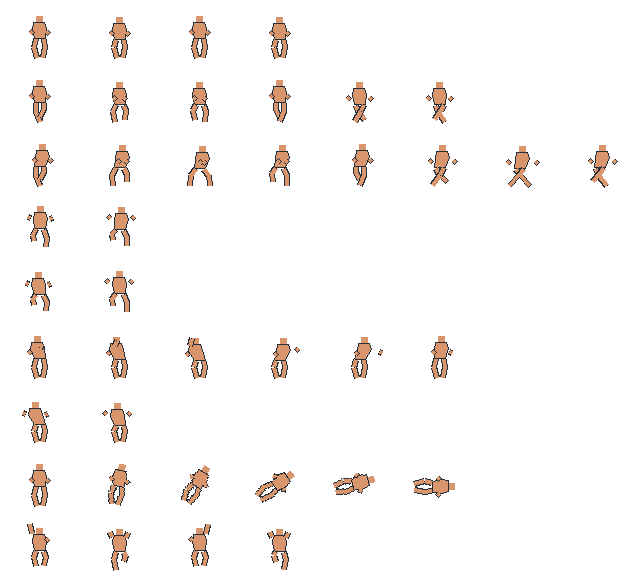
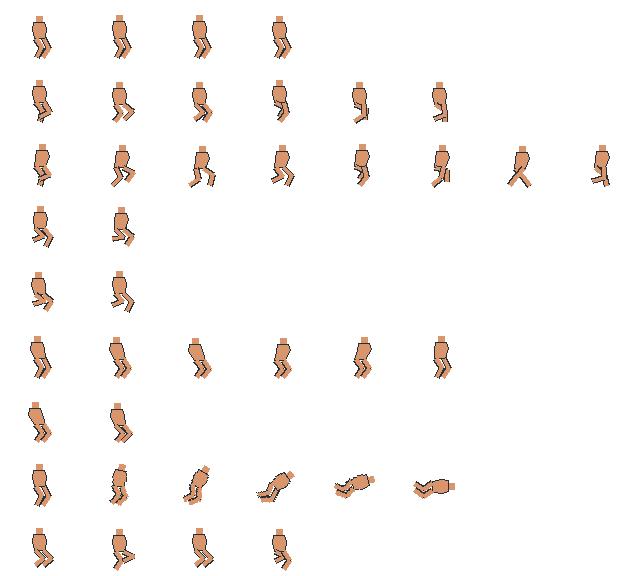
Support replaceable external character strips with apprentice fallback

diff --git a/src/scenes/apprentice.ts b/src/scenes/apprentice.ts
@@ -1,39 +1,90 @@
 import Phaser from 'phaser';
 import { PLAYER } from '../data/config';
+import { characterArt } from '../data/characterArt';
 import layout from '../data/apprentice.json';
 
 export const APPRENTICE = 'apprentice';
 const clips = layout.clips;
 type Clip = keyof typeof clips;
-const fps: Record<Clip, number> = { idle: 4, walk: 9, run: 14, jump: 6, fall: 6, attack: 24, hurt: 12, death: 10, climb: 10 };
+const fps: Record<Clip, number> = { idle: 2, walk: 9, run: 14, jump: 6, fall: 6, attack: 24, hurt: 12, death: 10, climb: 10 };
 
 export function preloadApprentice(scene: Phaser.Scene) {
+  for (const state of ['idle', 'run', 'attack'] as const) {
+    characterArt[state].layers.forEach((url, i) => {
+      const key = externalKey(state, i);
+      if (!scene.textures.exists(key)) scene.load.image(key, url);
+    });
+  }
   for (const layer of layout.layers) {
     const key = APPRENTICE + '-' + layer;
     if (!scene.textures.exists(key)) scene.load.image(key, './art/apprentice/' + layer + '.png');
   }
 }
 
+function externalKey(state: string, layer: number) { return 'hero-art-' + state + '-' + layer; }
+
+function externalFrames(scene: Phaser.Scene, state: 'idle' | 'run' | 'attack') {
+  const { width, height, foot, facesLeft } = characterArt;
+  const { count, layers } = characterArt[state];
+  if (!layers.length) return;
+  const keys = layers.map((_, i) => externalKey(state, i));
+  if (!Number.isInteger(count) || count < 1 || width <= 0 || height <= 0 ||
+      foot.x <= 0 || foot.x >= width || foot.y <= 0 || foot.y > height ||
+      (state === 'attack' && (characterArt.attack.impactFrame < 1 || characterArt.attack.impactFrame >= count)) ||
+      keys.some(key => !scene.textures.exists(key))) return;
+  const images = keys.map(key => scene.textures.get(key).getSourceImage() as HTMLImageElement);
+  if (images.some(im => im.width !== width * count || im.height !== height)) return;
+
+  // Normalize artwork onto the existing physics sprite's frame and foot anchor.
+  const [ax, ay] = layout.foot;
+  const pivot = facesLeft ? width - foot.x : foot.x;
+  const scale = Math.min(ax / pivot, (layout.width - ax) / (width - pivot),
+    ay / foot.y, (layout.height - ay) / (height - foot.y), 1);
+  const key = 'hero-clip-' + state;
+  const sheet = scene.textures.createCanvas(key, count * layout.width, layout.height)!;
+  const ctx = sheet.context;
+  ctx.imageSmoothingEnabled = false;
+  const frames = Array.from({ length: count }, (_, i) => {
+    ctx.save();
+    ctx.translate(i * layout.width + ax, ay);
+    ctx.scale(facesLeft ? -scale : scale, scale);
+    for (const image of images) ctx.drawImage(image, i * width, 0, width, height, -foot.x, -foot.y, width, height);
+    ctx.restore();
+    sheet.add(i, 0, i * layout.width, 0, layout.width, layout.height);
+    return { key, frame: i };
+  });
+  sheet.refresh().setFilter(Phaser.Textures.FilterMode.NEAREST);
+  return frames;
+}
+
 export function assembleApprentice(scene: Phaser.Scene) {
   if (scene.textures.exists(APPRENTICE)) return;
   const first = scene.textures.get(APPRENTICE + '-' + layout.layers[0]).getSourceImage();
   const sheet = scene.textures.createCanvas(APPRENTICE, first.width, first.height)!;
+  for (const state of ['idle', 'run', 'attack'] as const) {
+    characterArt[state].layers.forEach((url, i) => {
+      const key = externalKey(state, i);
+      if (!scene.textures.exists(key)) scene.load.image(key, url);
+    });
+  }
   for (const layer of layout.layers) {
     sheet.context.drawImage(scene.textures.get(APPRENTICE + '-' + layer).getSourceImage() as HTMLImageElement, 0, 0);
   }
   sheet.refresh().setFilter(Phaser.Textures.FilterMode.NEAREST);
   for (const state of Object.keys(clips) as Clip[]) {
     const { row, count } = clips[state];
-    const frames = Array.from({ length: count }, (_, i) => {
+    const replacement = state === 'idle' || state === 'run' || state === 'attack' ? externalFrames(scene, state) : undefined;
+    const frames = replacement ?? Array.from({ length: count }, (_, i) => {
       const frame = state + '-' + i;
       sheet.add(frame, 0, i * layout.width, row * layout.height, layout.width, layout.height);
       return { key: APPRENTICE, frame };
     });
     if (state === 'attack') {
-      scene.anims.create({ key: 'tech-windup', frames: frames.slice(0, 3), frameRate: 3000 / PLAYER.windup });
-      scene.anims.create({ key: 'tech-impact', frames: frames.slice(3), frameRate: 3000 / (PLAYER.swing - PLAYER.windup) });
+      const impact = replacement ? characterArt.attack.impactFrame : 3;
+      scene.anims.create({ key: 'tech-windup', frames: frames.slice(0, impact), frameRate: impact * 1000 / PLAYER.windup });
+      scene.anims.create({ key: 'tech-impact', frames: frames.slice(impact), frameRate: (frames.length - impact) * 1000 / (PLAYER.swing - PLAYER.windup) });
     } else {
-      scene.anims.create({ key: 'tech-' + state, frames, frameRate: fps[state],
+      scene.anims.create({ key: 'tech-' + state, frames, frameRate: replacement && (state === 'idle' || state === 'run') ? characterArt[state].fps : fps[state],
         repeat: ['hurt','death'].includes(state) ? 0 : -1 });
     }
   }

diff --git a/src/systems/CombatSystem.ts b/src/systems/CombatSystem.ts
@@ -19,12 +19,6 @@ export class CombatSystem {
   }
   private strike(player: Player, enemies: Enemy[], damage: number, onKill: (enemy: Enemy) => void, facing: number) {
     const range = new Phaser.Geom.Rectangle(player.x + (facing > 0 ? 5 : -105), player.y - 35, 100, 70);
-    const slash = this.scene.add.graphics({ x: player.x, y: player.y }).setDepth(20);
-    slash.fillStyle(0xe4ffac, 0.13).fillRect(5, -35, 100, 70);
-    slash.lineStyle(11, 0xf2ffce, 0.85).beginPath().arc(0, 0, 65, -0.9, 0.85).strokePath();
-    slash.lineStyle(3, 0xffffff, 1).beginPath().arc(0, 0, 65, -0.9, 0.85).strokePath();
-    slash.setScale(facing, 1);
-    this.scene.tweens.add({ targets: slash, alpha: 0, duration: 135, onComplete: () => slash.destroy() });
     enemies.filter(e => e.active && Phaser.Geom.Intersects.RectangleToRectangle(range, new Phaser.Geom.Rectangle(e.body!.x, e.body!.y, e.body!.width, e.body!.height))).forEach(enemy => {
       enemy.hp -= damage; enemy.stagger(); this.float(enemy.x, enemy.y - 45, `${damage}`, '#fff0a9');
       if (enemy.hp <= 0) { enemy.die(); onKill(enemy); }

diff --git a/src/data/characterArt.ts b/src/data/characterArt.ts
@@ -1,0 +1,14 @@
+/** URLs are relative to the game page (public/ is the web root).
+ * Provide one horizontal strip per action. Put transparent costume strips
+ * after the base strip, back to front, with exactly the same dimensions.
+ * Example: layers: ['art/hero/run.png', 'art/hero/run-coat.png'].
+ * An empty list selects the bundled apprentice for that action.
+ */
+export const characterArt = {
+  width: 80, height: 64,
+  foot: { x: 40, y: 60 }, // source pixel coordinates, measured from top left
+  facesLeft: false,      // native facing of the supplied art
+  idle: { layers: [] as string[], count: 4, fps: 2 },
+  run: { layers: [] as string[], count: 8, fps: 14 },
+  attack: { layers: [] as string[], count: 6, impactFrame: 3 } // zero-based
+};

diff --git a/tools/draw_apprentice.py b/tools/draw_apprentice.py
@@ -1,6 +1,6 @@
 """Draw original, aligned pixel layers for the apprentice. Requires Pillow."""
 import json
-from math import sin, cos, pi, radians
+from math import sin, cos, pi, radians, hypot, sqrt
 from pathlib import Path
 from PIL import Image, ImageDraw
 
@@ -15,6 +15,14 @@ COPPER, TEAL, PALE = "#b97040", "#388d86", "#86d8b9"
 sheets = {name: Image.new("RGBA", (W*8, H*len(STATES))) for name in LAYERS}
 
 
+def bent_joint(root, tip, bend, length):
+    dx, dy = tip[0]-root[0], tip[1]-root[1]
+    span = max(1, hypot(dx, dy))
+    flex = sqrt(max(0, length**2 - (span/2)**2)) * bend
+    return (round((root[0]+tip[0])/2 + dy/span*flex),
+            round((root[1]+tip[1])/2 - dx/span*flex))
+
+
 def draw(state, i):
     layers = {name: Image.new("RGBA", (W, H)) for name in LAYERS}
     d = {k: ImageDraw.Draw(im) for k, im in layers.items()}
@@ -23,6 +31,8 @@ def draw(state, i):
     run = state == "run"
     rear = state == "climb"
     bob = round(abs(sin(phase)) * (2 if gait else 1))
+    if state == "idle":
+        bob = [0, -1, -1, 0][i]
     lean = 3 if run else 0
     if state == "attack":
         lean = [-2, -3, -4, 4, 5, 2][i]
@@ -33,13 +43,14 @@ def draw(state, i):
         lean, bob = 1+i, -2+i
     if state == "fall":
         lean, bob = -1+i, -i
+    hip = 0 if state == "idle" else bob
     x, y = 39+lean, 22+bob
     # Exposed neck and arms. Ink outlines stay one pixel wide at native scale.
     d["body"].rectangle((x-3,y-6,x+3,y+2), fill=SKIN)
     def limb(layer, pts, color, width):
         d[layer].line(pts, fill=INK, width=width+2)
         d[layer].line(pts, fill=color, width=width)
-    d["body"].polygon([(x-6,y),(x+5,y),(x+7,y+6),(45,38+bob),(34,38+bob),(x-7,y+7)],fill=SKIN,outline=INK)
+    d["body"].polygon([(x-6,y),(x+5,y),(x+7,y+6),(45,38+hip),(34,38+hip),(x-7,y+7)],fill=SKIN,outline=INK)
     for side in [-1, 1]:
         step = round(side*sin(phase)*(10 if run else 6)) if gait else side*3
         lift = round(max(0, side*cos(phase))*(6 if run else 4)) if gait else 0
@@ -48,19 +59,20 @@ def draw(state, i):
         elif state in ("jump","fall"):
             step, lift = side*(6+i), (9 if side==-1 else 3)+i*(1 if state=="jump" else -1)
         foot = (39+step, 57-lift)
-        leg = [(39+side*4,39+bob),(39+side*4+step//2,47-lift//2),foot]
+        socket = (39+side*4,38+hip)
+        leg = [socket, bent_joint(socket, foot, 1, 11), foot]
         limb("body",leg,SKIN,4)
         limb("clothes",leg,"#334e5c" if side<0 else "#46687a",6)
         fx, fy = foot
         d["clothes"].rectangle((fx-3,fy-3,fx+5,fy+2),fill="#473a35",outline=INK)
         d["clothes"].line((fx-2,fy-2,fx+3,fy-2),fill="#da995c")
     # Jacket, leather yoke, stitched utility belt and brass buckle.
-    d["clothes"].polygon([(x-7,y),(x+6,y),(x+9,y+6),(41+5,39+bob),(32,39+bob),(x-9,y+7)], fill=TEAL, outline=INK)
+    d["clothes"].polygon([(x-7,y),(x+6,y),(x+9,y+6),(41+5,39+hip),(32,39+hip),(x-9,y+7)], fill=TEAL, outline=INK)
     d["clothes"].line((x-6,y+3,x+5,y+3),fill=PALE,width=2)
-    d["clothes"].polygon([(x-6,y+4),(x-3,y+4),(42,36+bob),(39,36+bob)],fill="#925b41")
-    d["clothes"].rectangle((32,36+bob,47,40+bob),fill="#664737",outline=INK)
-    d["clothes"].rectangle((39,37+bob,42,39+bob),fill="#efc564")
-    d["clothes"].rectangle((32,38+bob,36,43+bob),fill=COPPER,outline=INK)
+    d["clothes"].polygon([(x-6,y+4),(x-3,y+4),(42,36+hip),(39,36+hip)],fill="#925b41")
+    d["clothes"].rectangle((32,36+hip,47,40+hip),fill="#664737",outline=INK)
+    d["clothes"].rectangle((39,37+hip,42,39+hip),fill="#efc564")
+    d["clothes"].rectangle((32,38+hip,36,43+hip),fill=COPPER,outline=INK)
     # Angular face, dark fringe, single raised eyebrow, copper ear guard.
     face=d["face"]
     face.polygon([(x-6,y-17),(x+5,y-17),(x+7,y-12),(x+7,y-7),(x+3,y-4),(x-5,y-5),(x-7,y-10)],fill="#573e36" if rear else SKIN,outline=INK)
@@ -86,23 +98,29 @@ def draw(state, i):
             hx += side*(3+i)
             hy -= 6+i*2
         elif state=="attack" and side==1:
-            hx=x+[5,1,-3,15,17,10][i]
+            hx=x+[5,1,6,14,16,10][i]
             hy=y+[2,-3,-6,4,9,10][i]
         shoulder = (x+side*6,y+4)
-        elbow = (hx-side*2,(shoulder[1]+hy)//2+2)
+        elbow = bent_joint(shoulder, (hx,hy), -1, 7)
         limb("clothes",[shoulder,elbow],TEAL,5)
-        limb("body",[elbow,(hx,hy)],SKIN,4)
+        limb("clothes",[elbow,(hx,hy)],"#579e98",5)
+        d["clothes"].ellipse((elbow[0]-2,elbow[1]-2,elbow[0]+2,elbow[1]+2),fill=TEAL)
         d["clothes"].rectangle((hx-2,hy-2,hx+2,hy+2),fill="#654638")
         if side==1:
             grip=(hx,hy)
     # Rotated polygon hammer, parked at the belt for the rear view.
-    angle = ([-58,-101,-135,0,30,62][i] if state=="attack" else
+    angle = ([-85,-115,-70,-10,35,62][i] if state=="attack" else
              110 if rear else 72+round(sin(phase)*12 + cos(phase)*5))
+    if state == "idle":
+        angle = [73, 73, 75, 75][i]
     gx,gy = (34,38) if rear else grip
     a=radians(angle)
     def point(u,v):
         return round(gx+u*cos(a)-v*sin(a)),round(gy+u*sin(a)+v*cos(a))
     hammer=d["weapon"]
+    if state == "attack" and i in (3,4):
+        tx,ty = point(16,-4)
+        hammer.line([(tx-8,ty-9),(tx-3,ty-5),(tx,ty)],fill="#c4ddd0",width=2)
     hammer.polygon([point(u,v) for u,v in [(-2,-1),(13,-1),(13,1),(-2,1)]],fill=COPPER,outline=INK)
     hammer.polygon([point(u,v) for u,v in [(11,-6),(16,-6),(17,-3),(16,5),(11,5)]],fill="#83a7ad",outline=INK)
     hammer.line([point(12,-5),point(15,-5)],fill="#e0f0db",width=2)
